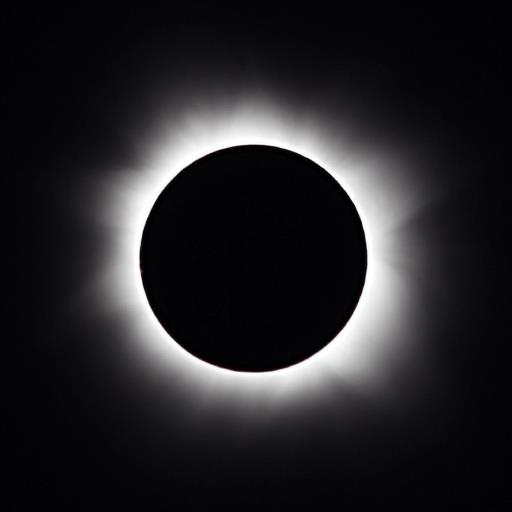
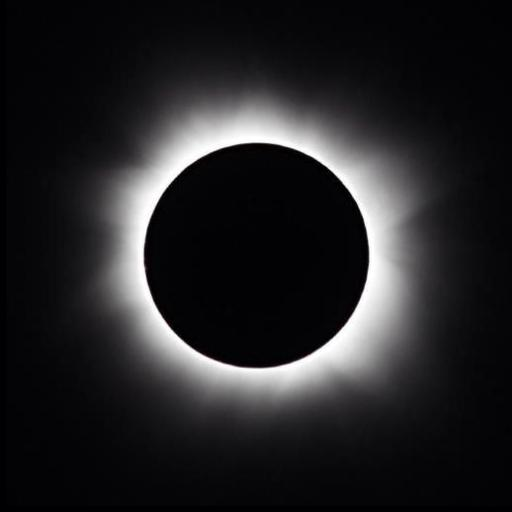
Better corona

diff --git a/threex.planets.js b/threex.planets.js
@@ -10,6 +10,7 @@ THREEx.Planets.params = {
   // texture map, bump map, cloud map, arbitrary radius, axis tilt in degrees, rotation period in days
   // ring: texture map, outer radius rel. to planet, opacity
   "sol": {map: "sunmap.jpg", radius: 1.2, tilt: 7.25, rot: 1.0438},
+          corona: {map: "solarcorona.jpg", radius:5.1} },
   "mer": {map: "mercurymap.jpg", bump:"mercurybump.jpg", radius: 0.3, tilt: 0, rot: 58.646},
   "ven": {map: "venusmap.jpg", radius: 0.4, tilt: 177.3, rot: 4.05},
   "ter": {map: "earthmap.jpg", bump:"earthbump.jpg", clouds:"earthclouds.png", radius: 0.4, tilt: 23.45, rot: 0.9973},
@@ -18,13 +19,13 @@ THREEx.Planets.params = {
   "ves": {map: "vestamap.jpg", bump: "vestabump.jpg", radius: 0.1, tilt: 29.0, rot: 0.223},
   "cer": {map: "ceresmap.jpg", radius: 0.16, tilt: 4.0, rot: 0.378},
   "jup": {map: "jupitermap.jpg", radius: 1.2, tilt: 3.12, rot: 0.414,
-             ring: {map: "jupiterrings.png", radius: 2.7, opacity: 0.5} },
+          ring: {map: "jupiterrings.png", radius: 2.7, opacity: 0.5} },
   "sat": {map: "saturnmap.jpg", radius: 1.2, tilt: 26.73, rot: 0.444, 
-             ring: {map: "saturnrings.png", radius: 2.6, opacity: 1.0} },
+          ring: {map: "saturnrings.png", radius: 2.6, opacity: 1.0} },
   "ura": {map: "uranusmap.jpg", radius: 1.0, tilt: 97.86, rot: 0.718, 
-             ring: {map: "uranusrings.png", radius: 2.0, opacity: 0.5} },
+          ring: {map: "uranusrings.png", radius: 2.0, opacity: 0.5} },
   "nep": {map: "neptunemap.jpg", radius: 1.0, tilt: 29.56, rot: 0.671, 
-             ring: {map: "neptunerings.png", radius: 2.5, opacity: 0.8} },
+          ring: {map: "neptunerings.png", radius: 2.5, opacity: 0.8} },
   "plu": {map: "plutomap.jpg", radius: 0.2, tilt: 122.53, rot: 6.387}  
 };
 
@@ -140,14 +141,16 @@ THREEx.Planets.createClouds = function(body) {
 
 // Solar corona, based on Lee Stemkoski's https://github.com/stemkoski/stemkoski.github.com/blob/master/Three.js/Simple-Glow.html
 THREEx.Planets.createCorona = function() {
+  var p = THREEx.Planets.params.sol, map = THREEx.Planets.baseURL + p.corona.map;
+
   var material = new THREE.SpriteMaterial({ 
-    map: new THREE.TextureLoader().load(THREEx.Planets.baseURL + "solarcorona.jpg"), 
+    map: new THREE.TextureLoader().load(map), 
     color: 0xffff33, 
     transparent: false, 
     blending: THREE.AdditiveBlending
 	});
 	var mesh = new THREE.Sprite(material);
-	mesh.scale.multiplyScalar(4.8);
+	mesh.scale.multiplyScalar(p.corona.radius);
 	mesh.name = "solcorona";
   return mesh;
 };

diff --git a/examples/showthemall.html b/examples/showthemall.html
@@ -13,7 +13,7 @@
   var renderer = new THREE.WebGLRenderer({
    antialias : true
   });
-  renderer.setClearColor("#000")
+  renderer.setClearColor("#000");
   renderer.setSize( window.innerWidth, window.innerHeight );
   document.body.appendChild( renderer.domElement );
 
